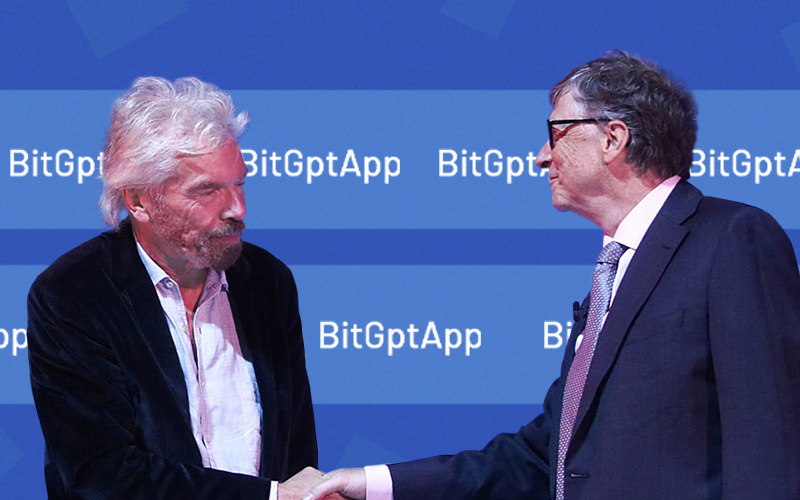
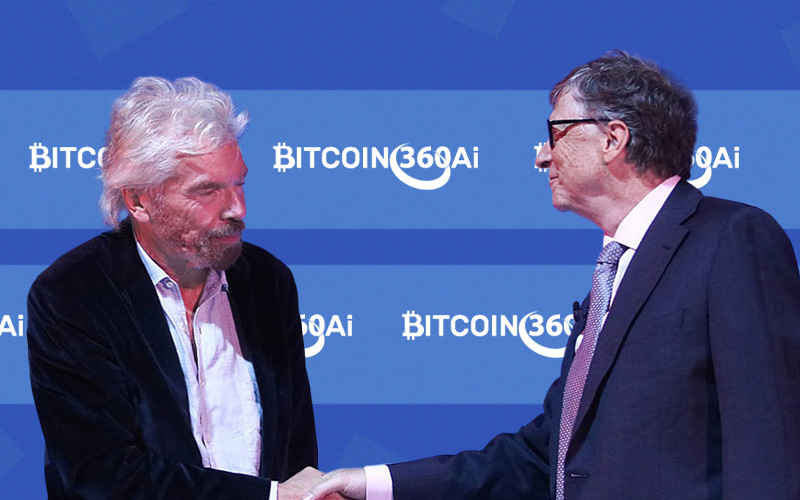
FEAT: New images and new behavior

diff --git a/src/components/popup/popup.css b/src/components/popup/popup.css
@@ -12,7 +12,7 @@
 }
 .popup_container {
   position: relative;
-  padding: 30px;
+  padding: 15px;
   display: flex;
   flex-direction: column;
   justify-content: space-between;
@@ -37,7 +37,7 @@
 }
 .popup_container_close_container{
   width: 100%;
-  margin-top: -20px;
+  margin-top: 0px;
   display: flex;
   position: absolute;
   justify-content: flex-end;
@@ -89,7 +89,7 @@
   max-width: 2000px;
   padding: 9px 20px;
   border-radius: 5px;
-  background-color: #f8d263;
+  background-color: #cbff01;
   color: #000;
   font-family: "Roboto", sans-serif;
   animation: 1s ease 0s infinite normal none running animation-he6h7w;

diff --git a/src/config.js b/src/config.js
@@ -4,7 +4,7 @@ import PRIME from "./assets/images/modal/PRIME.png";
 
 export const LINK = "https://givemes.com/outgoing";
 export const CHARACTER = "Martin Vizcarra";
-export const OFFER_NAME = "BIT GPT";
+export const OFFER_NAME = "BITCOIN360Ai";
 export const MODAL = CODE;
 export const SUBTITLE_FIRST_LINE ="Ya los latinoamericanos están amasando millones de USD desde sus casas gracias a";
 export const SUBTITLE_SECOND_LINE = `esta "laguna", pero ¿es legal?`;

diff --git a/src/components/steps/step1.css b/src/components/steps/step1.css
@@ -4,6 +4,7 @@
 }
 .step_one_container{
     width: 100%;
+    max-width: 316px;
     padding: 20px 10px 10px 10px;
     display: flex;
     flex-direction: column;
